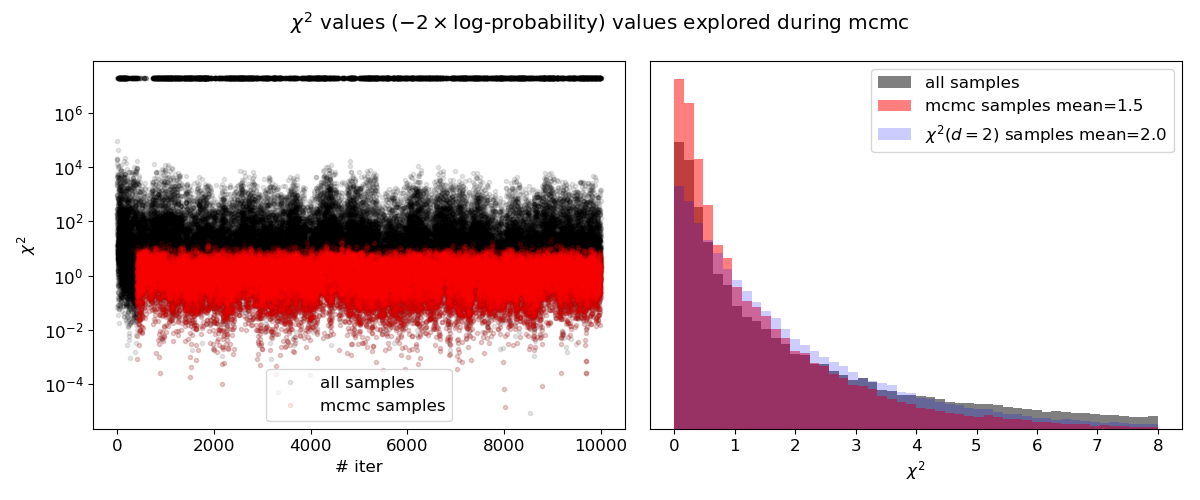
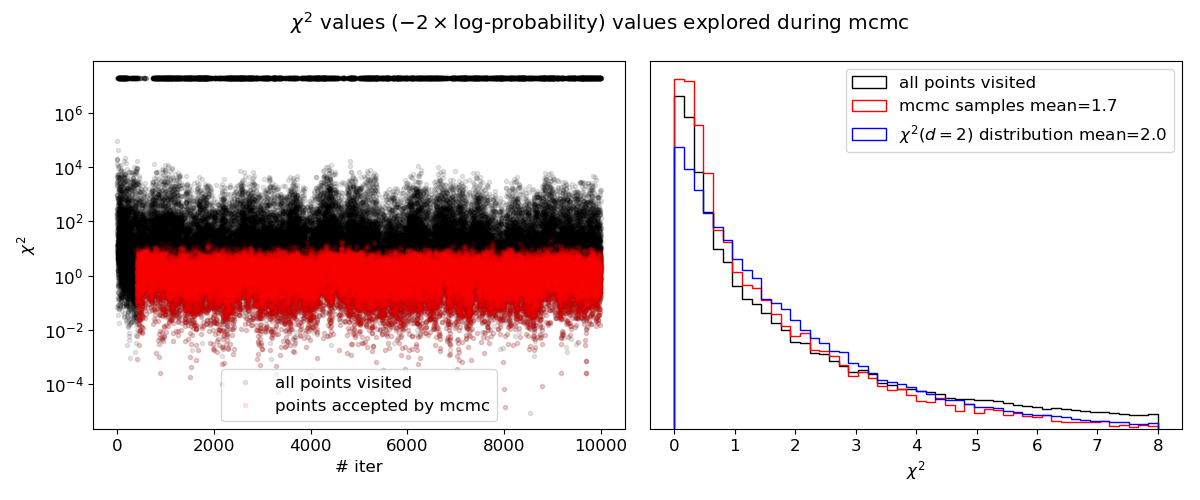
-in example_mcmc.py fixed bug with histogram of mcmc samples, previously did not account for duplicates correctly, now using sampler.get_log_prob directly. -changed variable names and plot labels to be more meaningful -cosmetic change to histtype='step'

Changed region(s): [[0.555, 0.15, 0.9867, 0.87], [0.7092, 0.15, 0.9558, 0.3], [0.2158, 0.75, 0.4008, 0.84]]

diff --git a/examples/example_mcmc.py b/examples/example_mcmc.py
@@ -5,8 +5,6 @@ import numpy as np
 from matplotlib.pyplot import cm
 from scipy.optimize import rosen
 
-from slurmcmc.general_utils import point_to_tuple
-from slurmcmc.mcmc import calculate_unique_points_weights
 from slurmcmc.mcmc import slurm_mcmc, get_gelman_rubin_statistic
 
 plt.close('all')
@@ -53,8 +51,6 @@ def log_prob_with_constraint(x):
 # initial points chosen to satisfy constraint
 init_points = (np.array([[x0_constraint, y0_constraint] for _ in range(num_walkers)])
                + (r_constraint * (np.random.rand(num_walkers, num_params) - 0.5)))
-# init_points = (np.array([minima for _ in range(num_walkers)])
-#                + 0.5 * np.random.randn(num_walkers, num_params))
 
 # log_prob_fun = log_prob
 log_prob_fun = log_prob_with_constraint
@@ -78,6 +74,7 @@ if burnin > 0:
 
 samples = sampler.get_chain(discard=burnin, thin=thin)
 samples_flat = sampler.get_chain(discard=burnin, thin=thin, flat=True)
+samples_flat_log_prob = sampler.get_log_prob(discard=burnin, thin=thin, flat=True)
 
 # integrated auto-correlation time multiples per chain
 tau_multiples = num_iters / tau
@@ -189,18 +186,17 @@ plt.tight_layout()
 if save_plots:
     plt.savefig('example_mcmc_convergence_diagnostics')
 
-mcmc_points_set, points_weights_dict = calculate_unique_points_weights(samples_flat)
-all_values_history = -2 * slurm_pool.values_history[:, 0]
-mcmc_values_history = all_values_history.copy()
-for ind_point, point in enumerate(slurm_pool.points_history):
-    if point_to_tuple(point) not in mcmc_points_set:
-        mcmc_values_history[ind_point] = np.nan
+all_points_chi2_history = -2 * slurm_pool.values_history[:, 0]
+num_iters_array_all = np.linspace(-0.5, num_iters, all_points_chi2_history.shape[0])
+
+samples_flat_chi2 = -2 * samples_flat_log_prob
+num_iters_array_mcmc = np.linspace(-0.5 + burnin, num_iters, samples_flat_chi2.shape[0])
 
 fig, axs = plt.subplots(nrows=1, ncols=2, figsize=(12, 5))
 ax = axs[0]
-num_iters_array = np.linspace(-0.5, num_iters, all_values_history.shape[0])
-ax.plot(num_iters_array, all_values_history, '.k', linewidth=1, alpha=0.1, label='all samples')
-ax.plot(num_iters_array, mcmc_values_history, '.r', linewidth=1, alpha=0.1, label='mcmc samples')
+ax.plot(num_iters_array_all, all_points_chi2_history, '.k', linewidth=1, alpha=0.1, label='all points visited')
+ax.plot(num_iters_array_mcmc, samples_flat_chi2, '.r', linewidth=1, alpha=0.1, label='mcmc samples')
+
 ax.set_xlabel('# iter')
 ax.set_ylabel('$\\chi^2$')
 ax.set_yscale('log')
@@ -209,21 +205,20 @@ ax.legend()
 ax = axs[1]
 bins = 50
 hist_range = (0, 4 * num_params)
-ax.hist(all_values_history, range=hist_range, bins=bins, color='k', alpha=0.5, density=True,
-        label='all samples')
-ax.hist(mcmc_values_history, range=hist_range, bins=bins, color='r', alpha=0.5, density=True,
-        label=f'mcmc samples mean={np.nanmean(mcmc_values_history):.1f}')
+ax.hist(all_points_chi2_history, range=hist_range, bins=bins, color='k', density=True, histtype='step',
+        label='all points visited')
+ax.hist(samples_flat_chi2, range=hist_range, bins=bins, color='r', density=True, histtype='step',
+        label=f'mcmc samples mean={np.nanmean(samples_flat_chi2):.1f}')
 
 # plot the values for a reference chi^2 distribution (sum of normal distributions squared)
-samples_chi2 = np.random.chisquare(num_params, len(mcmc_values_history))
-ax.hist(samples_chi2, range=hist_range, bins=bins, color='b', alpha=0.2, density=True,
-        label=f'$\\chi^2(d={num_params})$ samples mean={np.nanmean(samples_chi2):.1f}')
+samples_chi2_dist = np.random.chisquare(num_params, len(all_points_chi2_history))
+ax.hist(samples_chi2_dist, range=hist_range, bins=bins, color='b', density=True, histtype='step',
+        label=f'$\\chi^2(d={num_params})$ distribution mean={np.nanmean(samples_chi2_dist):.1f}')
 
 ax.set_xlabel('$\\chi^2$')
 ax.set_yticks([])
 ax.legend()
 
-fig.suptitle('log-probability values explored during mcmc')
 fig.suptitle('$\\chi^2$ values ($-2 \\times$log-probability) values explored during mcmc')
 fig.tight_layout()
 
@@ -239,7 +234,7 @@ for ind_iter in range(num_iters):
     else:
         ind_ini = ind_fin
         ind_fin += num_walkers
-    num_failed = np.sum(all_values_history[ind_ini:ind_fin] > 1e7)
+    num_failed = np.sum(all_points_chi2_history[ind_ini:ind_fin] > 1e7)
     failed_constraint_percentage_list += [100.0 * num_failed / (ind_fin - ind_ini)]
 plt.figure(figsize=(6, 5))
 plt.plot(iters_list, failed_constraint_percentage_list, 'ob')
